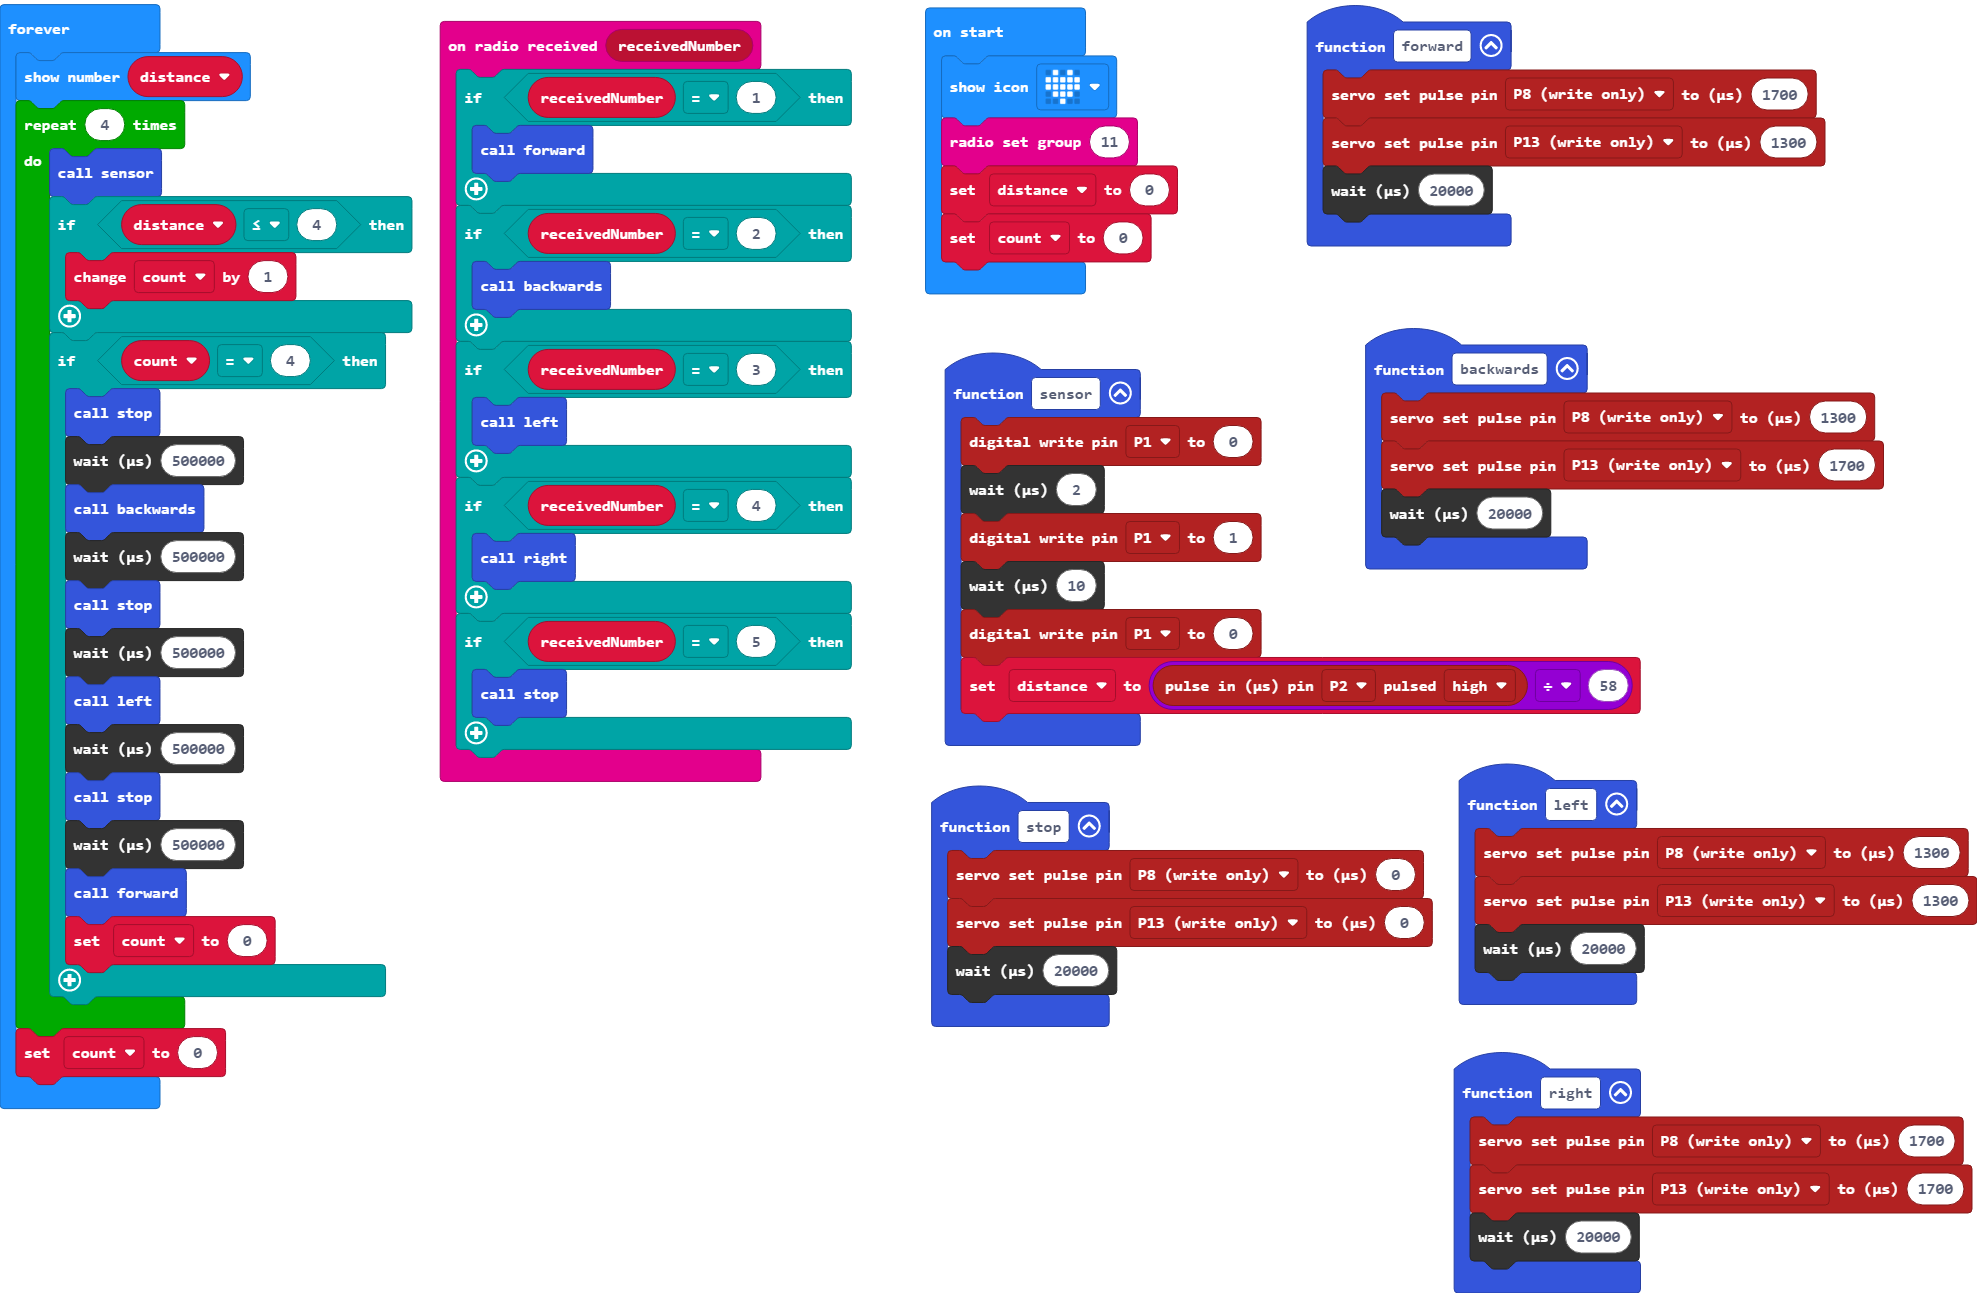
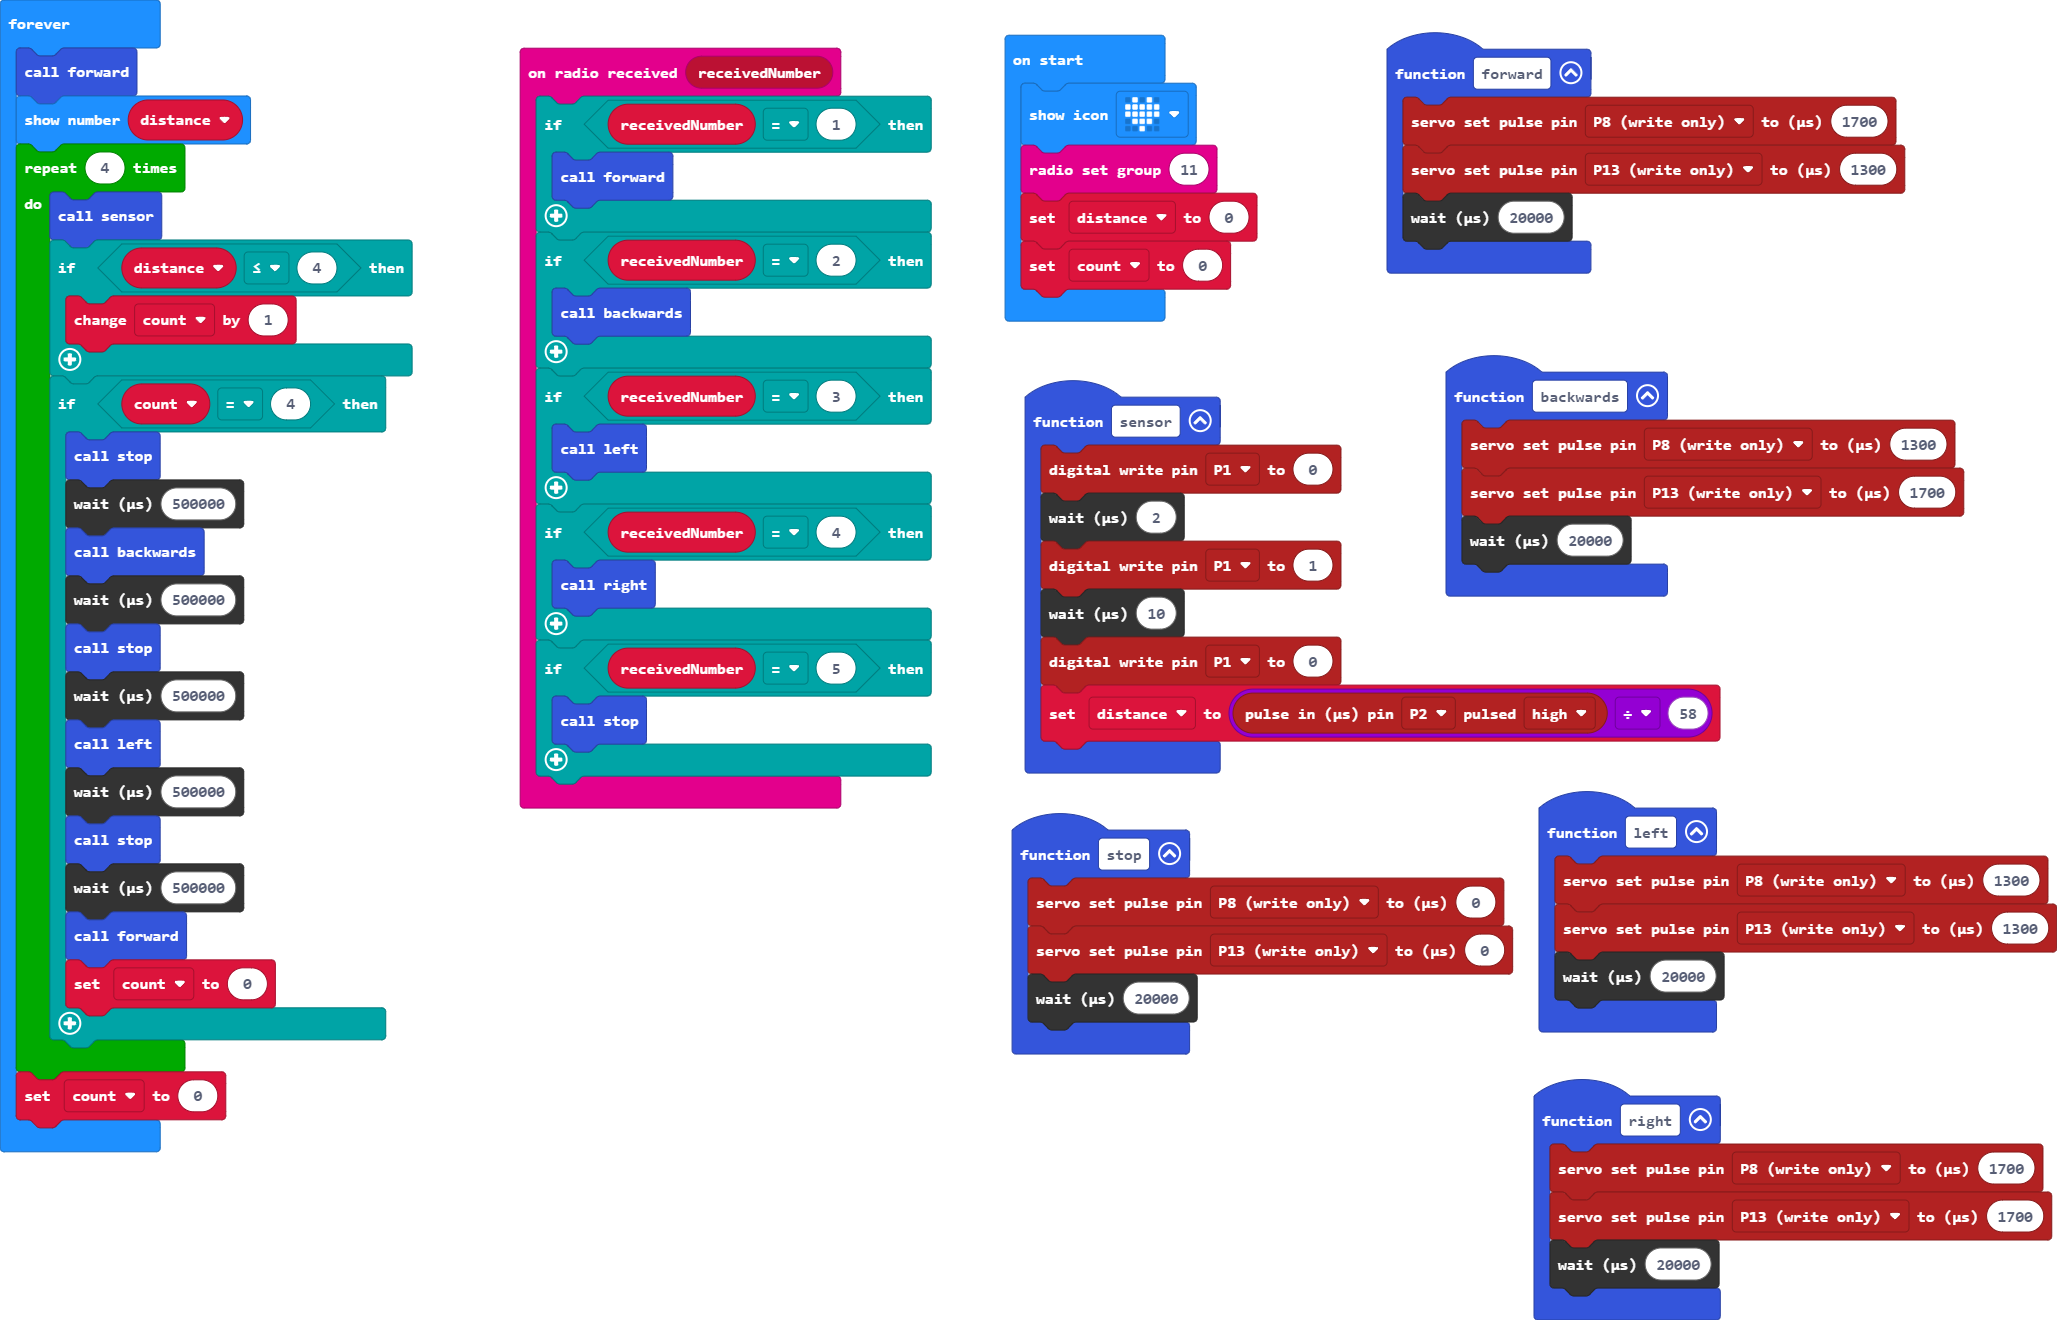
Update main.blocks, main.ts

diff --git a/main.ts b/main.ts
@@ -54,6 +54,7 @@ radio.setGroup(11)
 distance = 0
 let count = 0
 basic.forever(function () {
+    forward()
     basic.showNumber(distance)
     for (let index = 0; index < 4; index++) {
         sensor()
